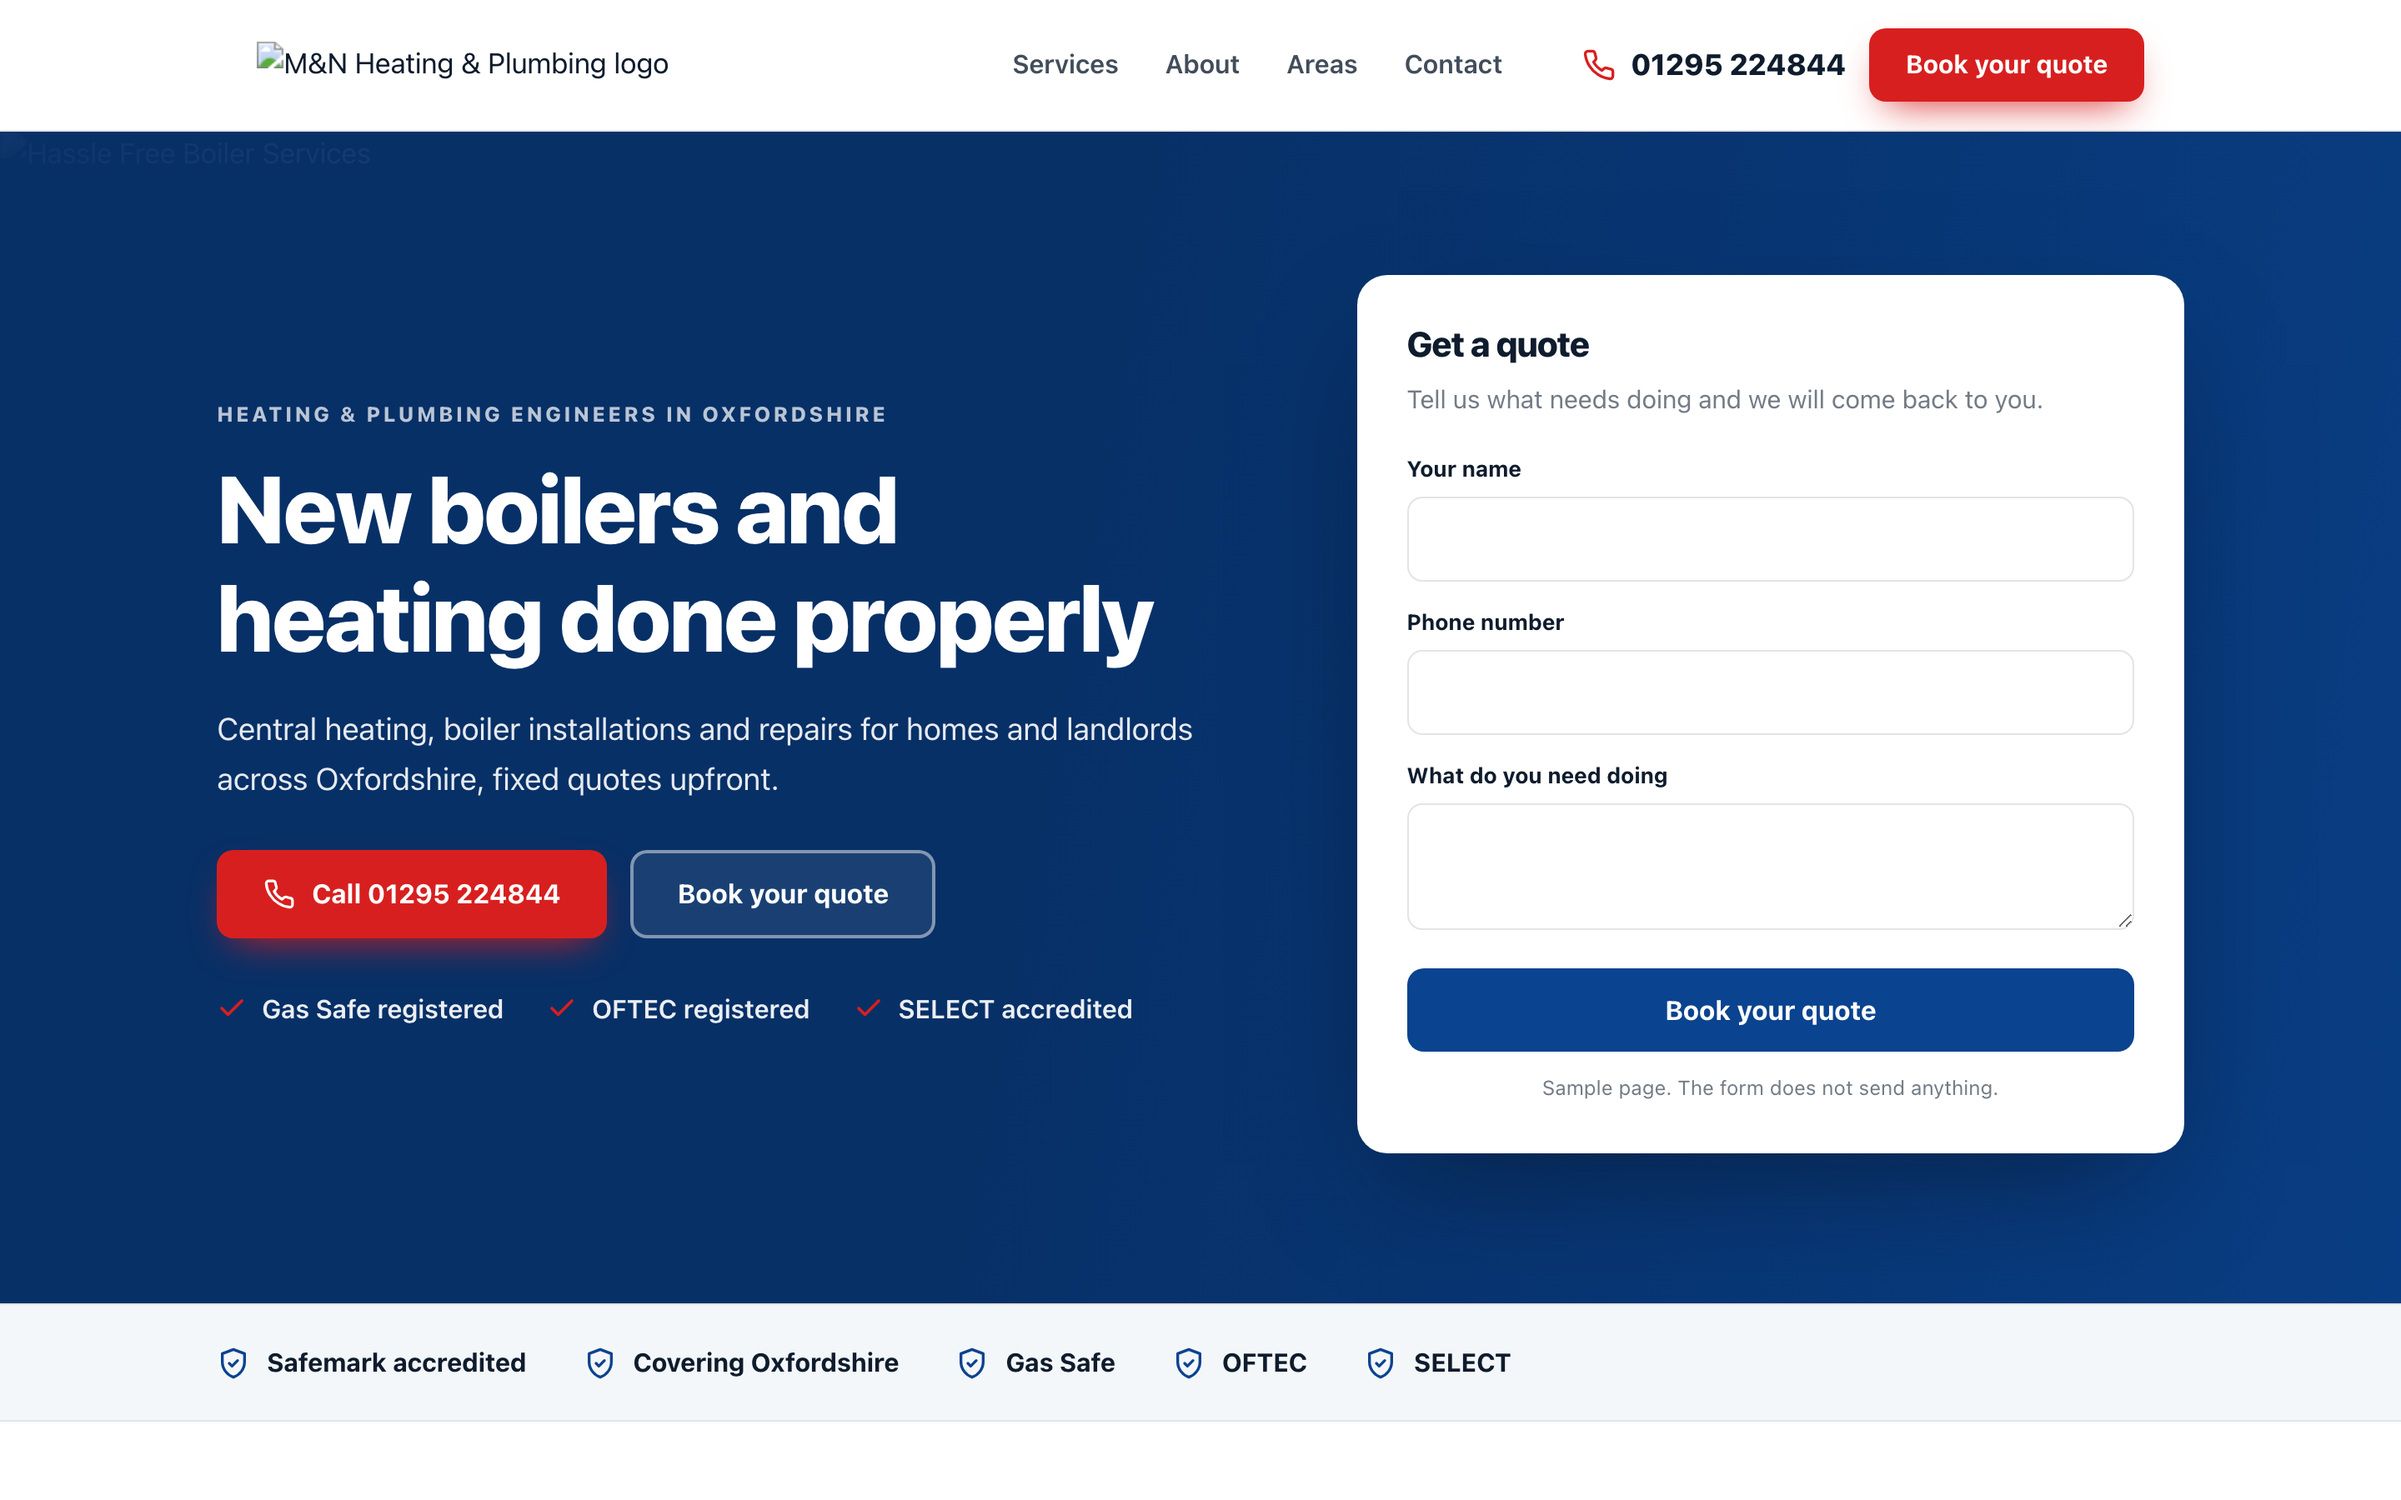
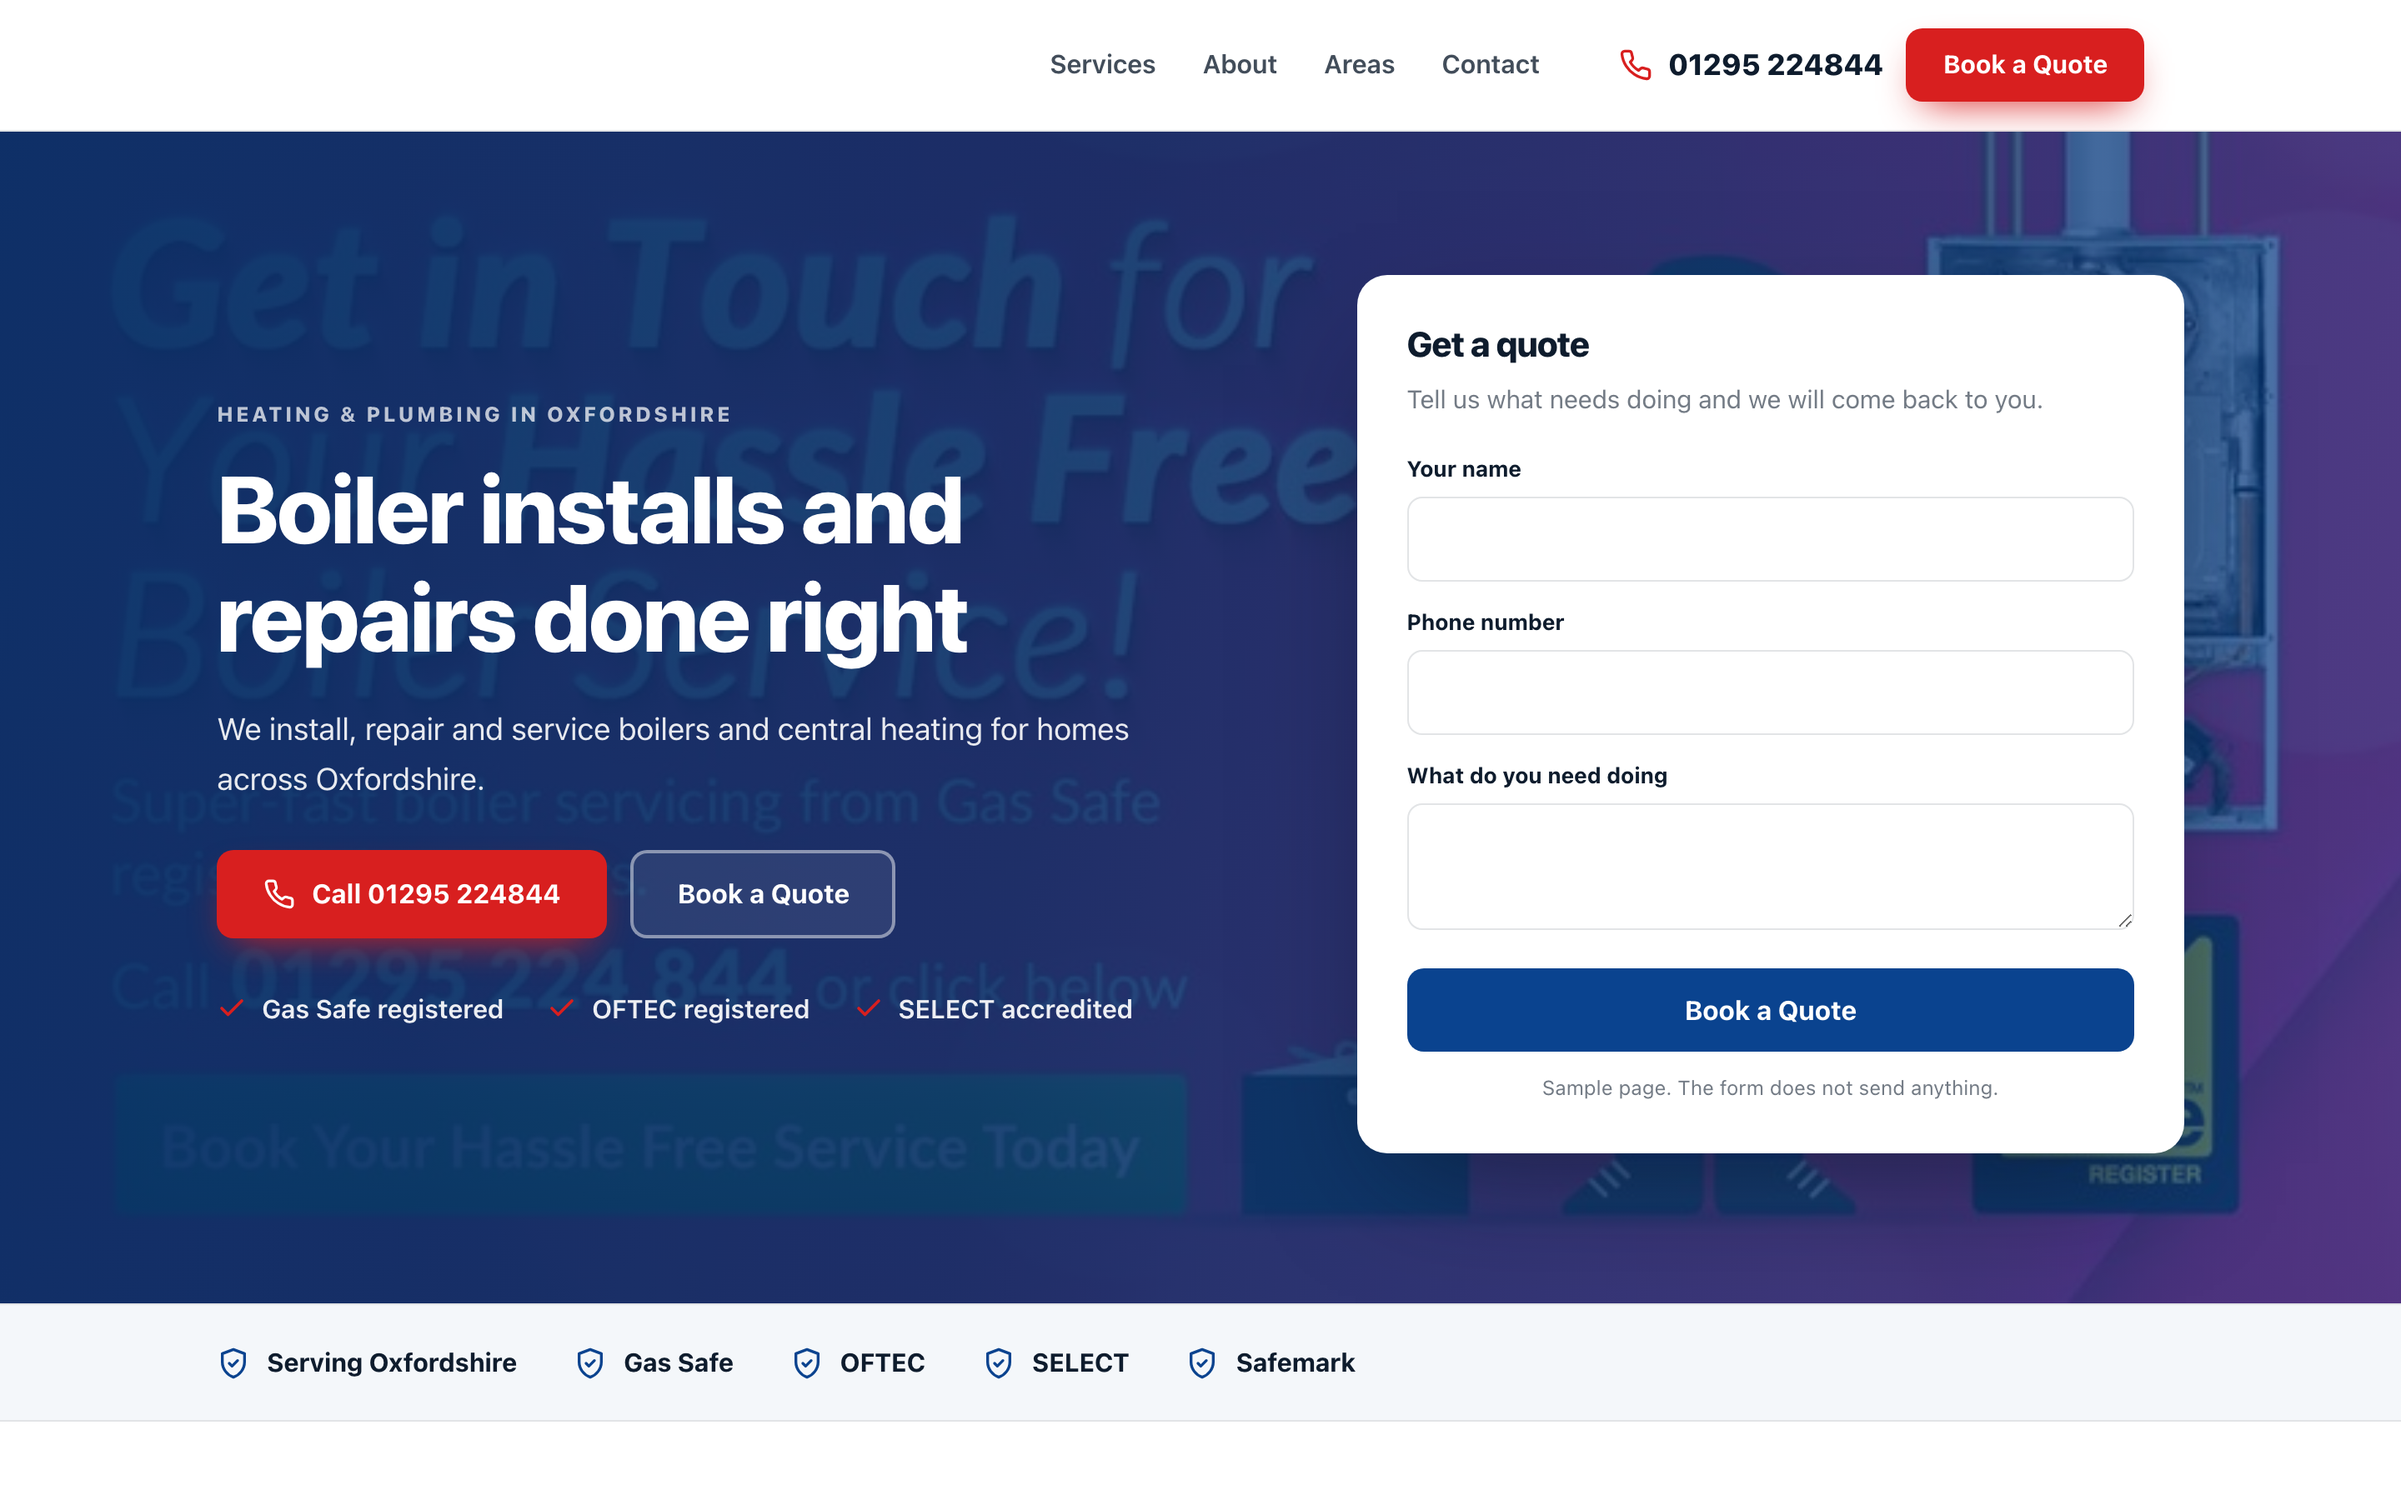
Sample homepage for M&N Heating & Plumbing

diff --git a/docs/6dce0117a9/index.html b/docs/6dce0117a9/index.html
@@ -6,11 +6,11 @@
 <meta name="robots" content="noindex,nofollow">
 <meta name="aso-build" content="">
 <title>M&amp;N Heating &amp; Plumbing sample homepage</title>
-<meta name="description" content="Central heating, boiler installations and repairs for homes and landlords across Oxfordshire, fixed quotes upfront.">
+<meta name="description" content="We install, repair and service boilers and central heating for homes across Oxfordshire.">
 <link rel="canonical" href="https://markygff.github.io/aso-mockups/6dce0117a9/">
 <meta property="og:type" content="website">
 <meta property="og:title" content="M&amp;N Heating &amp; Plumbing sample homepage">
-<meta property="og:description" content="Central heating, boiler installations and repairs for homes and landlords across Oxfordshire, fixed quotes upfront.">
+<meta property="og:description" content="We install, repair and service boilers and central heating for homes across Oxfordshire.">
 <meta property="og:url" content="https://markygff.github.io/aso-mockups/6dce0117a9/">
 <meta property="og:image" content="img/p03.jpg"><style>
 :root{
@@ -127,7 +127,7 @@ p{margin:0}
     </nav>
     <div class="header-cta">
       <a class="tel" href="tel:+441295224844"><svg viewBox="0 0 24 24" fill="none" stroke="currentColor" stroke-width="2" stroke-linecap="round" stroke-linejoin="round" aria-hidden="true"><path d="M22 16.9v3a2 2 0 0 1-2.2 2 19.8 19.8 0 0 1-8.6-3.1 19.5 19.5 0 0 1-6-6 19.8 19.8 0 0 1-3.1-8.7A2 2 0 0 1 4.1 2h3a2 2 0 0 1 2 1.7c.1 1 .4 1.9.7 2.8a2 2 0 0 1-.5 2.1L8.1 9.9a16 16 0 0 0 6 6l1.3-1.2a2 2 0 0 1 2.1-.5c.9.3 1.8.6 2.8.7a2 2 0 0 1 1.7 2z"/></svg><span>01295 224844</span></a>
-      <span class="btn btn-accent">Book your quote</span>
+      <span class="btn btn-accent">Book a Quote</span>
     </div>
   </div>
 </header>
@@ -136,12 +136,12 @@ p{margin:0}
   <div class="hero-bg"><img src="img/p03.jpg" alt="Hassle Free Boiler Services" width="1600" height="900"></div>
   <div class="wrap hero-in">
     <div>
-      <p class="eyebrow">Heating &amp; plumbing engineers in Oxfordshire</p>
-      <h1>New boilers and heating done properly</h1>
-      <p class="hero-sub">Central heating, boiler installations and repairs for homes and landlords across Oxfordshire, fixed quotes upfront.</p>
+      <p class="eyebrow">Heating &amp; plumbing in Oxfordshire</p>
+      <h1>Boiler installs and repairs done right</h1>
+      <p class="hero-sub">We install, repair and service boilers and central heating for homes across Oxfordshire.</p>
       <div class="hero-actions">
         <span class="btn btn-accent"><svg viewBox="0 0 24 24" fill="none" stroke="currentColor" stroke-width="2" stroke-linecap="round" stroke-linejoin="round" aria-hidden="true"><path d="M22 16.9v3a2 2 0 0 1-2.2 2 19.8 19.8 0 0 1-8.6-3.1 19.5 19.5 0 0 1-6-6 19.8 19.8 0 0 1-3.1-8.7A2 2 0 0 1 4.1 2h3a2 2 0 0 1 2 1.7c.1 1 .4 1.9.7 2.8a2 2 0 0 1-.5 2.1L8.1 9.9a16 16 0 0 0 6 6l1.3-1.2a2 2 0 0 1 2.1-.5c.9.3 1.8.6 2.8.7a2 2 0 0 1 1.7 2z"/></svg>Call 01295 224844</span>
-        <span class="btn btn-ghost">Book your quote</span>
+        <span class="btn btn-ghost">Book a Quote</span>
       </div>
       <ul class="hero-bullets">
 <li><svg viewBox="0 0 24 24" fill="none" stroke="currentColor" stroke-width="2.4" stroke-linecap="round" stroke-linejoin="round" aria-hidden="true"><path d="M20 6 9 17l-5-5"/></svg><span>Gas Safe registered</span></li><li><svg viewBox="0 0 24 24" fill="none" stroke="currentColor" stroke-width="2.4" stroke-linecap="round" stroke-linejoin="round" aria-hidden="true"><path d="M20 6 9 17l-5-5"/></svg><span>OFTEC registered</span></li><li><svg viewBox="0 0 24 24" fill="none" stroke="currentColor" stroke-width="2.4" stroke-linecap="round" stroke-linejoin="round" aria-hidden="true"><path d="M20 6 9 17l-5-5"/></svg><span>SELECT accredited</span></li>      </ul>
@@ -152,7 +152,7 @@ p{margin:0}
       <div class="field"><label>Your name</label><input type="text" disabled></div>
       <div class="field"><label>Phone number</label><input type="tel" disabled></div>
       <div class="field"><label>What do you need doing</label><textarea disabled></textarea></div>
-      <span class="btn btn-primary">Book your quote</span>
+      <span class="btn btn-primary">Book a Quote</span>
       <p class="sample-note">Sample page. The form does not send anything.</p>
     </div>
   </div>
@@ -160,11 +160,11 @@ p{margin:0}
 
 <div class="strip">
   <div class="wrap strip-in">
-    <div class="strip-item"><svg viewBox="0 0 24 24" fill="none" stroke="currentColor" stroke-width="2" stroke-linecap="round" stroke-linejoin="round" aria-hidden="true"><path d="M12 2 4 5v6c0 5 3.4 9.4 8 11 4.6-1.6 8-6 8-11V5z"/><path d="m9 12 2 2 4-4"/></svg><span>Safemark accredited</span></div>
-    <div class="strip-item"><svg viewBox="0 0 24 24" fill="none" stroke="currentColor" stroke-width="2" stroke-linecap="round" stroke-linejoin="round" aria-hidden="true"><path d="M12 2 4 5v6c0 5 3.4 9.4 8 11 4.6-1.6 8-6 8-11V5z"/><path d="m9 12 2 2 4-4"/></svg><span>Covering Oxfordshire</span></div>
+    <div class="strip-item"><svg viewBox="0 0 24 24" fill="none" stroke="currentColor" stroke-width="2" stroke-linecap="round" stroke-linejoin="round" aria-hidden="true"><path d="M12 2 4 5v6c0 5 3.4 9.4 8 11 4.6-1.6 8-6 8-11V5z"/><path d="m9 12 2 2 4-4"/></svg><span>Serving Oxfordshire</span></div>
     <div class="strip-item"><svg viewBox="0 0 24 24" fill="none" stroke="currentColor" stroke-width="2" stroke-linecap="round" stroke-linejoin="round" aria-hidden="true"><path d="M12 2 4 5v6c0 5 3.4 9.4 8 11 4.6-1.6 8-6 8-11V5z"/><path d="m9 12 2 2 4-4"/></svg><span>Gas Safe</span></div>
     <div class="strip-item"><svg viewBox="0 0 24 24" fill="none" stroke="currentColor" stroke-width="2" stroke-linecap="round" stroke-linejoin="round" aria-hidden="true"><path d="M12 2 4 5v6c0 5 3.4 9.4 8 11 4.6-1.6 8-6 8-11V5z"/><path d="m9 12 2 2 4-4"/></svg><span>OFTEC</span></div>
     <div class="strip-item"><svg viewBox="0 0 24 24" fill="none" stroke="currentColor" stroke-width="2" stroke-linecap="round" stroke-linejoin="round" aria-hidden="true"><path d="M12 2 4 5v6c0 5 3.4 9.4 8 11 4.6-1.6 8-6 8-11V5z"/><path d="m9 12 2 2 4-4"/></svg><span>SELECT</span></div>
+    <div class="strip-item"><svg viewBox="0 0 24 24" fill="none" stroke="currentColor" stroke-width="2" stroke-linecap="round" stroke-linejoin="round" aria-hidden="true"><path d="M12 2 4 5v6c0 5 3.4 9.4 8 11 4.6-1.6 8-6 8-11V5z"/><path d="m9 12 2 2 4-4"/></svg><span>Safemark</span></div>
   </div>
 </div>
 
@@ -173,28 +173,28 @@ p{margin:0}
     <div class="services-head">
       <p class="eyebrow">What we do</p>
       <h2>M&amp;N Heating &amp; Plumbing, Oxfordshire</h2>
-      <p>Central heating, boiler installations and repairs for homes and landlords across Oxfordshire, fixed quotes upfront.</p>
+      <p>We install, repair and service boilers and central heating for homes across Oxfordshire.</p>
     </div>
     <div class="grid">
       <article class="card">
         <div class="icon"><svg viewBox="0 0 24 24" fill="none" stroke="currentColor" stroke-width="2" stroke-linecap="round" stroke-linejoin="round" aria-hidden="true"><path d="M14.7 6.3a4 4 0 0 0 5.3 5.3l-8 8a3 3 0 0 1-4.2-4.2z"/><path d="m14.7 6.3 3-3"/></svg></div>
         <h3>New Boilers</h3>
-        <p>Straightforward new boiler installations with a fixed price agreed before we start.</p>
+        <p>We supply and fit new boilers, sized right for your home.</p>
       </article>
       <article class="card">
         <div class="icon"><svg viewBox="0 0 24 24" fill="none" stroke="currentColor" stroke-width="2" stroke-linecap="round" stroke-linejoin="round" aria-hidden="true"><path d="M13 2 4 14h7l-1 8 9-12h-7z"/></svg></div>
-        <h3>Central Heating</h3>
-        <p>Full central heating installs and upgrades to keep your home warm and your bills down.</p>
+        <h3>Boiler Repairs</h3>
+        <p>Boiler broken down? We&#39;ll get out to fix it.</p>
       </article>
       <article class="card">
         <div class="icon"><svg viewBox="0 0 24 24" fill="none" stroke="currentColor" stroke-width="2" stroke-linecap="round" stroke-linejoin="round" aria-hidden="true"><path d="M3 10.5 12 3l9 7.5"/><path d="M5 9.5V21h14V9.5"/><path d="M10 21v-6h4v6"/></svg></div>
-        <h3>Boiler Repairs</h3>
-        <p>Boiler gone wrong? We diagnose the fault and get it fixed.</p>
+        <h3>Annual Boiler Service</h3>
+        <p>A yearly service keeps your boiler safe and running well.</p>
       </article>
       <article class="card">
         <div class="icon"><svg viewBox="0 0 24 24" fill="none" stroke="currentColor" stroke-width="2" stroke-linecap="round" stroke-linejoin="round" aria-hidden="true"><path d="M4 20 15 9"/><path d="m14 4 6 6-3 3-6-6z"/><path d="m3 15 6 6"/></svg></div>
-        <h3>Annual Boiler Service</h3>
-        <p>A yearly service to keep your boiler running safely and efficiently.</p>
+        <h3>Central Heating</h3>
+        <p>We install and upgrade central heating systems throughout your home.</p>
       </article>
     </div>
   </div>
